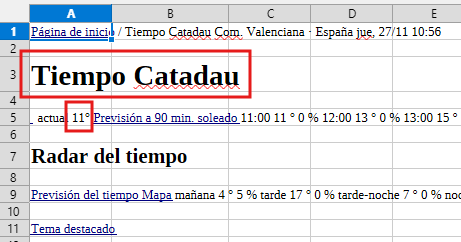
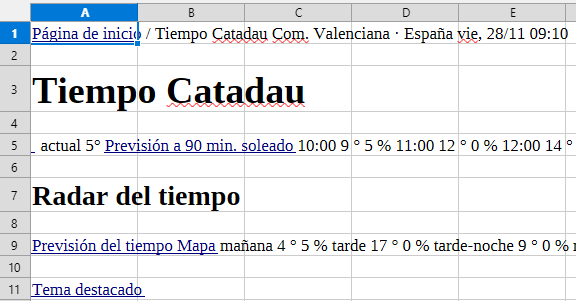
ao

diff --git a/docs/SMX/SMX_1/AO/03_Hojas de calculo.md b/docs/SMX/SMX_1/AO/03_Hojas de calculo.md
@@ -921,15 +921,16 @@ Commo ya hemos visto en el tema sobre libreOffice writer, una macro es una secue
 !!! exercise "Tarea RA3-CEe"
     !!! exercise "Parte 1 - Grabación de una macro"
         - Ir a **Herramientas** → **Macros** → **Grabar macros**    
-        - Grabar una macro que crea una tabla con unos valores y aplique unos cuantos estilos. **Es importante de primero, definir los datos, luego la altura y anchura, luego los colores. De lo contrario es probable que algunos procesos se pierdan durante la grabación**.
+        - Grabar una macro que crea una tabla con unos valores y aplique unos cuantos estilos. 
+        - **Nota importante**. Con la versión actual de LibreOffice (25.8.1.1), la grabación de macro sigue siendo experimental. Por ese motivo es importante secuenciar las opraciones durante la grabación. Por ejemplo, primero, definir los datos, luego, la altura y anchura, luego, los colores. De lo contrario es probable que algunos procesos no se ejecuten durante la ejecución posterior de la macro.  
         **Ejemplo de tabla:**
         ![Descripción de la imagen](./03_hojas_de_calculo/img/ra3cee-1.png){ .leftdoscinco .margintopbottom10}<br>
         - Guardar la macro **dentro del documento**, no dentro de LibreOffice ya que de hacerlo así no viajará con el documento. <br>
         ![Descripción de la imagen](./03_hojas_de_calculo/img/ra3cee-2.png){ .lefttrescinco .margintopbottom10}<br>
 
     !!! exercise "Parte 2 - Creación de un botón para ejecutar la macro"
-        A diferencia del **writer** donde el uso de una macro suele resultar puntual, en calc su uso puede llegar a ser **intensivo**. Del mismo modo, es bastante habitual necesitar varias macros disponibles en un mismo documento lo que hace, que usar atajos de teclado para llamarlas suele resultar en errores de ejecución.  
-        Por todos esos motivos es recomendable usar controles por botones. 
+        A diferencia del **writer** donde el uso de una macro suele resultar puntual, en calc su uso puede llegar a ser **intensivo**. Del mismo modo, es bastante habitual necesitar varias macros en un mismo documento lo que hace que usar atajos de teclado para llamarlas pueda resultar en errores de ejecución.  
+        Por esos motivos es recomendable usar controles por botones. 
 
         1. Hacer visibles los controles de formulario.
         ![Descripción de la imagen](./03_hojas_de_calculo/img/ra3cee-3.png){ .leftdoscinco .margintopbottom10}<br>
@@ -945,7 +946,18 @@ Commo ya hemos visto en el tema sobre libreOffice writer, una macro es una secue
         1. para poder empezar a usar el botón **deseleccionar el modo de diseño** del menú **Controles de formulario**. 
         ![Descripción de la imagen](./03_hojas_de_calculo/img/ra3cee-6.png){ .leftcuatrocinco .margintopbottom10}<br>
         
-    !!! exercise "Parte 3 - Automatizar la importación de datos externos"
+    !!! exercise "Parte 3 - Primeros pasos en la edición de macros"
+        Disponemos de una macro pero, puede que no se adecúe a nuestras necesidades. La primera opción sería grabar una nueva macro pero puede resultar más simple modificar nuestra macro.
+
+        1. Para editar una macro ir a **Herramientas** → **Macro** → **Editar macro**.
+        Aparecerá una ventana similar a la siguiente imagen y seleccionamos la macro a editar.
+        ![Descripción de la imagen](./03_hojas_de_calculo/img/ra3cee-11.png){ .leftsietecinco .margintopbottom10}<br>
+        1. Buscamos las líneas de código dónde se escribe el texto y lo modificamos segun nuestras necesidades.  
+        ![Descripción de la imagen](./03_hojas_de_calculo/img/ra3cee-12.png){ .leftseiscinco .margintopbottom10}<br>
+        1. Guardamos las modificaciones y ejecutamos la macro de nuevo para ver los resultados.  
+        ![Descripción de la imagen](./03_hojas_de_calculo/img/ra3cee-13.png){ .leftdoscinco .margintopbottom10}<br>
+
+    !!! exercise "Parte 4 - Automatizar la importación de datos externos"
         En este ejercicio automatizaremos la recuperación de la temperatura de la localidad de Catadau desde una página web.  
         Enlace de la página web: https://www.tiempoyradar.es/tiempo/catadau/2025569  
 
@@ -957,17 +969,20 @@ Commo ya hemos visto en el tema sobre libreOffice writer, una macro es una secue
         ![Descripción de la imagen](./03_hojas_de_calculo/img/ra3cee-7.png){ .leftcincocero .margintopbottom10}<br>
         1. Dentro de **Tablas e intervalos disponibles** seleccionar **HTML_all**.  
         ![Descripción de la imagen](./03_hojas_de_calculo/img/ra3cee-8.png){ .lefttrescero .margintopbottom10}<br>
-        1. De todos los campos que aparecerán, solo dejar **Tiempo Catadau y el valor de la temperatura actual** y aplicar estilos al gusto.
+        1. Resultado de la importación.
         ![Descripción de la imagen](./03_hojas_de_calculo/img/ra3cee-9.png){ .leftcincocero .margintopbottom10}<br>
-        1. Parar la grabación y guardar la macro **dentro del documento**.
+        1. Crear un botón y asignarle la macro que acabais de crear.
         1. **Resultado final**.
-        ![Descripción de la imagen](./03_hojas_de_calculo/img/ra3cee-10.png){ .lefttrescero .margintopbottom10}<br>
+        ![Descripción de la imagen](./03_hojas_de_calculo/img/ra3cee-14.png){ .leftsietecinco .margintopbottom10}<br>
 
+    !!! warning "Entrega de la tarea"
+        Subir la tarea a AULES en el apartado correspondiente.  
+        El archivo a subir deberá ser de tipo **.ods** (formato nativo de LibreOffice Calc).  
+        **No se aceptará ningún otro formato de archivo**.
 
-
-### **Tarea RA3-CEg-1 -**
-### **Tarea RA3-CEg-2 -**
-### **Tarea RA3-CEh -**
+### **Tarea RA3-CEg-1 - Hoja de cálculo como base de datos 1**
+### **Tarea RA3-CEg-2 - Hoja de cálculo como base de datos 2**
+### **Tarea RA3-CEh - Automatización de la introducción de datos**
 
 
 <!-- 
@@ -978,7 +993,7 @@ Commo ya hemos visto en el tema sobre libreOffice writer, una macro es una secue
     *|**c)** Se han aplicado fórmulas y funciones. |15%|
     *|**d)** Se han generado y modificado gráficos de diferentes tipos. |10%|
     *|**e)** Se han empleado macros para la realización de documentos y plantillas.|10%|
-    |**f)** `Se han importado y exportado hojas de cálculo creadas con otras aplicaciones y en otros formatos.`|10%|
+    *|**f)** `Se han importado y exportado hojas de cálculo creadas con otras aplicaciones y en otros formatos.`|10%|
     |**g)** Se ha utilizado la hoja de cálculo como base de datos: formularios, creación de listas, filtrado, protección y ordenación de datos. |10%|
     |**h)** Se han utilizado aplicaciones y periféricos para introducir textos, números, códigos e imágenes.|    10%|
  -->

diff --git a/docs/DAW/DAW_2/AWS/UT. 6-ElasticLoadBalancing.md b/docs/DAW/DAW_2/AWS/UT. 6-ElasticLoadBalancing.md
@@ -181,7 +181,7 @@ Monta el siguiente escenario:
 - Se trabajará en 2 regiones distintas (us-east-1 / N-Virginia y us-west-2 / Oregón). 
 - En cada región estarán ubicadas dos VPCs con sus correspondientes subredes interconectadas por un Transit Gateway. 
 - Para interconectar las regiones colocaremos un peer connection. 
-- Conectarse a la instnacia 1 y realizar capturas de pings al resto de instancias (1 captura). 
+- Conectarse a la instancia 1 y realizar capturas de pings al resto de instancias (1 captura). 
 - Realizar capturas de la propagación y pings con éxito a todas las instancias del escenario (3 capturas).
 
 ![](../AWS/ut6/RA3-CEd.png){ .sietecinco }<br>
